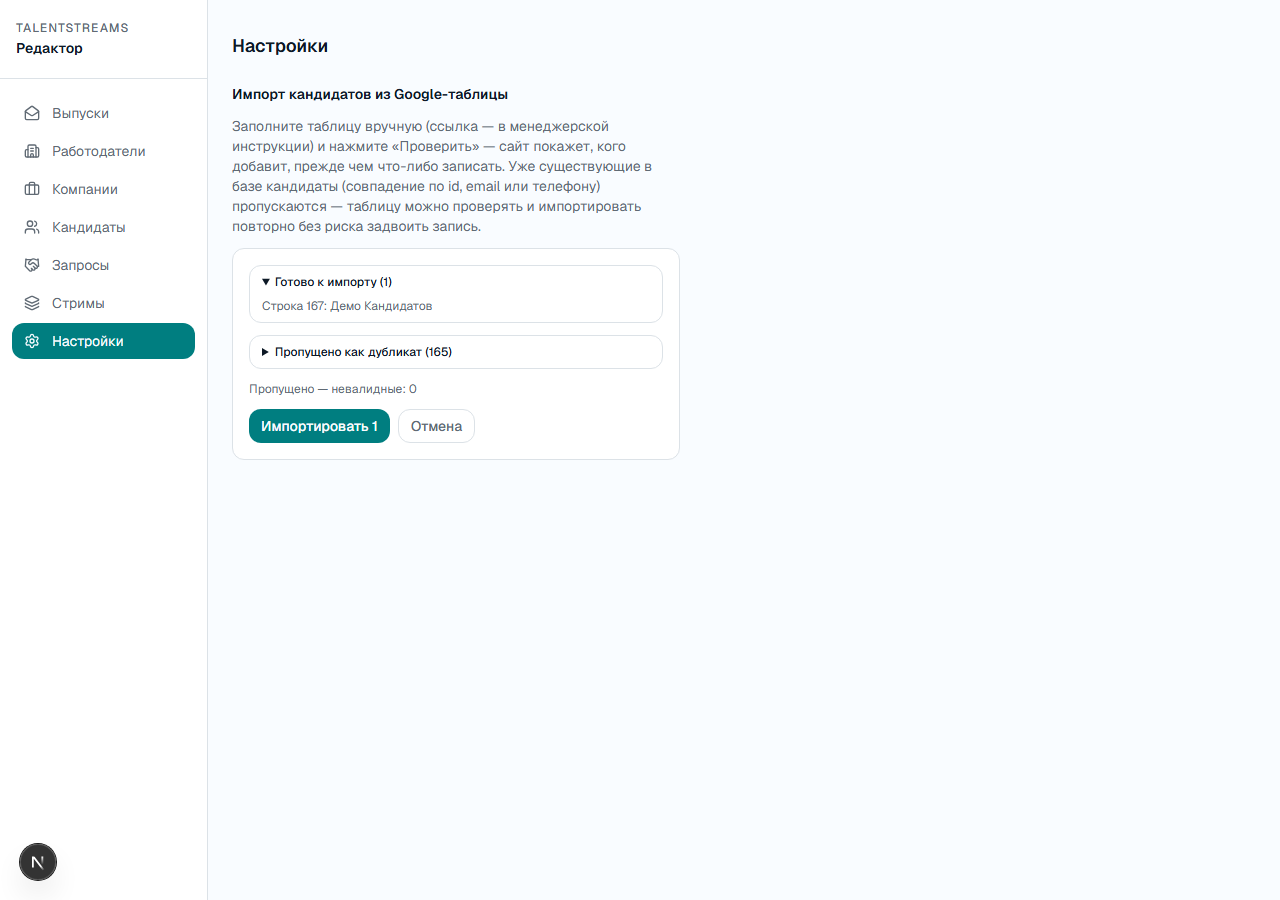
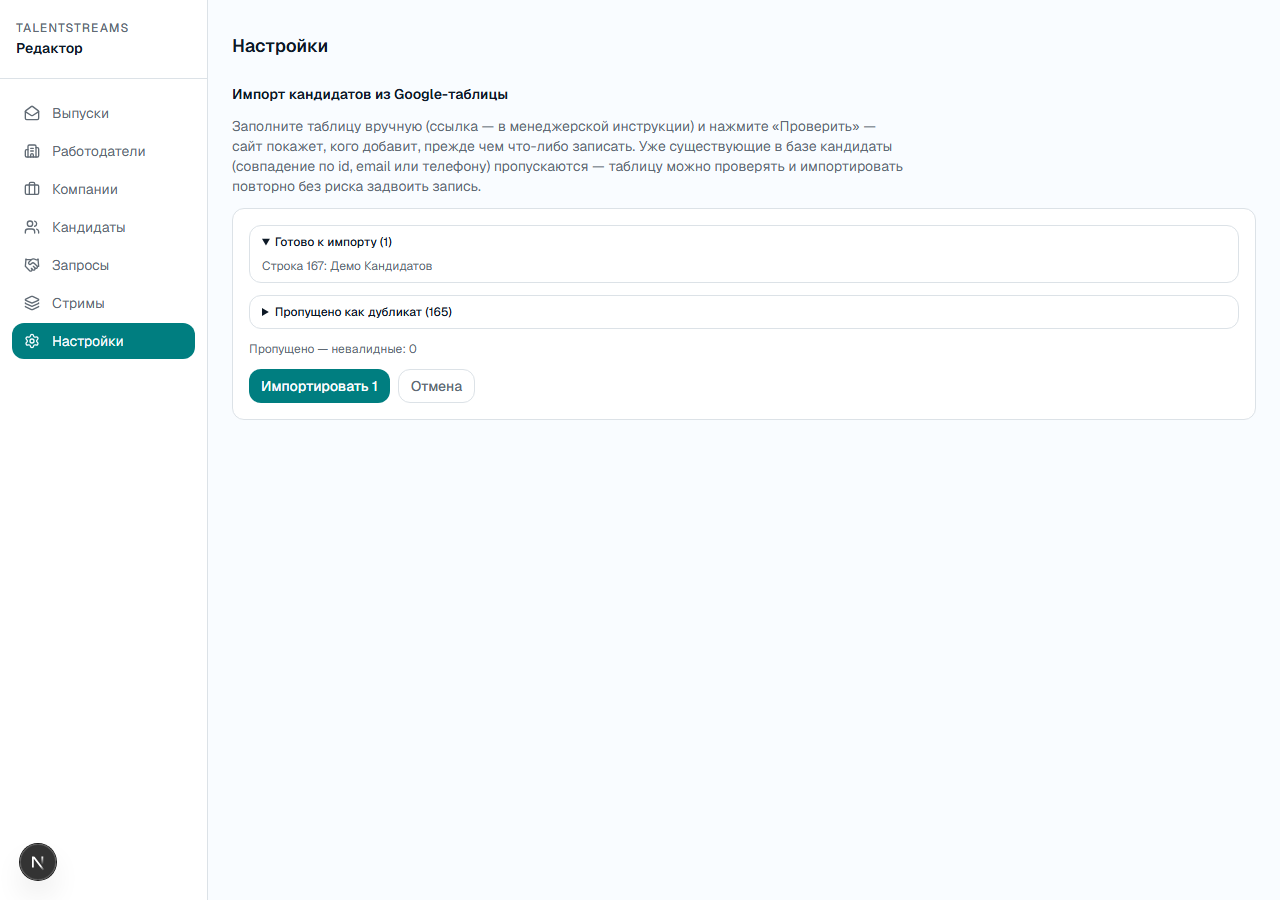
TASK-39: расширить панель импорта кандидатов на всю ширину (#93)
Блоки превью/результата/ошибки были искусственно сужены max-w-md —
без смысла, другие экраны редактора используют всю доступную ширину.
Заодно обновлён скриншот в менеджерской инструкции.

Changed region(s): [[0.1875, 0.1244, 0.7188, 0.4978], [0.5, 0.3111, 0.5312, 0.3422]]

diff --git a/components/import-candidates-button.tsx b/components/import-candidates-button.tsx
@@ -71,7 +71,7 @@ export function ImportCandidatesButton() {
 
   if (state.phase === "preview") {
     return (
-      <div className="max-w-md space-y-3 rounded-xl border bg-card p-4">
+      <div className="w-full space-y-3 rounded-xl border bg-card p-4">
         <RowList title="Готово к импорту" count={state.toImport.length} rows={state.toImport} />
         <RowList title="Пропущено как дубликат" count={state.skippedDuplicate.length} rows={state.skippedDuplicate} />
         <RowList title="Пропущено — невалидные" count={state.skippedInvalid.length} rows={state.skippedInvalid} />
@@ -106,7 +106,7 @@ export function ImportCandidatesButton() {
 
   if (state.phase === "success") {
     return (
-      <div className="max-w-md space-y-3 rounded-xl border bg-card p-4">
+      <div className="w-full space-y-3 rounded-xl border bg-card p-4">
         <p className="flex items-center gap-1.5 text-sm font-medium text-emerald-600">
           <CheckCircle2 className="size-4" />
           Импорт завершён
@@ -125,7 +125,7 @@ export function ImportCandidatesButton() {
   }
 
   return (
-    <div className="max-w-md space-y-3">
+    <div className="w-full space-y-3">
       <p className="flex items-center gap-1.5 text-sm text-destructive">
         <AlertCircle className="size-4" />
         {state.message}

diff --git a/app/editor/settings/page.tsx b/app/editor/settings/page.tsx
@@ -24,7 +24,7 @@ export default async function SettingsPage({
 
       <div className="space-y-3">
         <h2 className="text-sm font-semibold text-card-foreground">Импорт кандидатов из Google-таблицы</h2>
-        <p className="max-w-md text-sm text-muted-foreground">
+        <p className="max-w-2xl text-sm text-muted-foreground">
           Заполните таблицу вручную (ссылка — в менеджерской инструкции) и нажмите «Проверить» —
           сайт покажет, кого добавит, прежде чем что-либо записать. Уже существующие в базе
           кандидаты (совпадение по id, email или телефону) пропускаются — таблицу можно проверять
